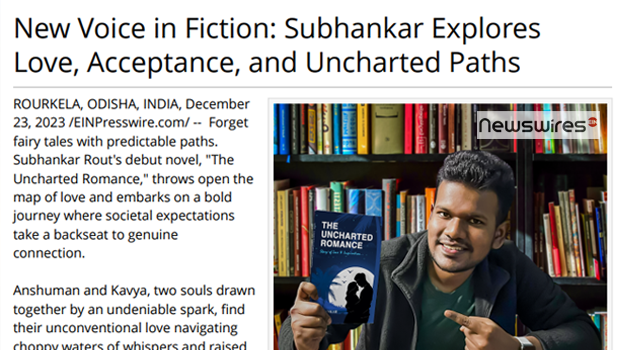
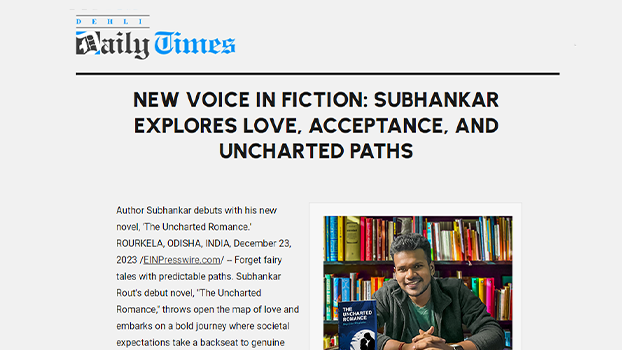
update press

diff --git a/pr-award.html b/pr-award.html
@@ -174,6 +174,18 @@
                         </div>
                      </div>
                   </div>
+                     <div class="swiper-slide">
+                     <div class="bl-hero__slider-item p-relative">
+                        <div class="bl-hero__slider-img fix">
+                           <img class="w-100" src="assets/img/pr/american.tur.png" alt="American News">
+                        </div>
+                        <div class="bl-hero__content z-index">
+                           <span class="bl-hero__category">The American Times</span>
+                           <h4 class="bl-hero__title"><a href="https://www.americantimesreporter.com/article/676953671-new-voice-in-fiction-subhankar-explores-love-acceptance-and-uncharted-paths" target="_blank">Relese of "The Uncharted Romance"</a></h4>
+                           <p>Covered by The American Times</p>
+                        </div>
+                     </div>
+                  </div> -
                   <!-- <div class="swiper-slide">
                      <div class="bl-hero__slider-item p-relative">
                         <div class="bl-hero__slider-img fix">
@@ -221,8 +233,8 @@
                        <img class=" w-100" src="assets/img/pr/details/turbook_newswire.png" alt="">
                     </div>
                      <div class="tp-portfolio-content-box">
-                        <h3 class="portfolio-animation-title"><a href="https://www.einnews.com/pr_news/676953671/new-voice-in-fiction-subhankar-explores-love-acceptance-and-uncharted-paths">New Book Release</a></h3>
-                        <span>Newswires 2024</span>
+                        <h3 class="portfolio-animation-title"><a href="https://www.dehlidailytimes.com/article/676953671-new-voice-in-fiction-subhankar-explores-love-acceptance-and-uncharted-paths">New Book Release</a></h3>
+                        <span>Daily Times 2024</span>
                      </div>
                      <div class="portfolio-animation-icon">
                        <a class="popup-image" href="assets/img/pr/details/turbook_newswire.png"> 
